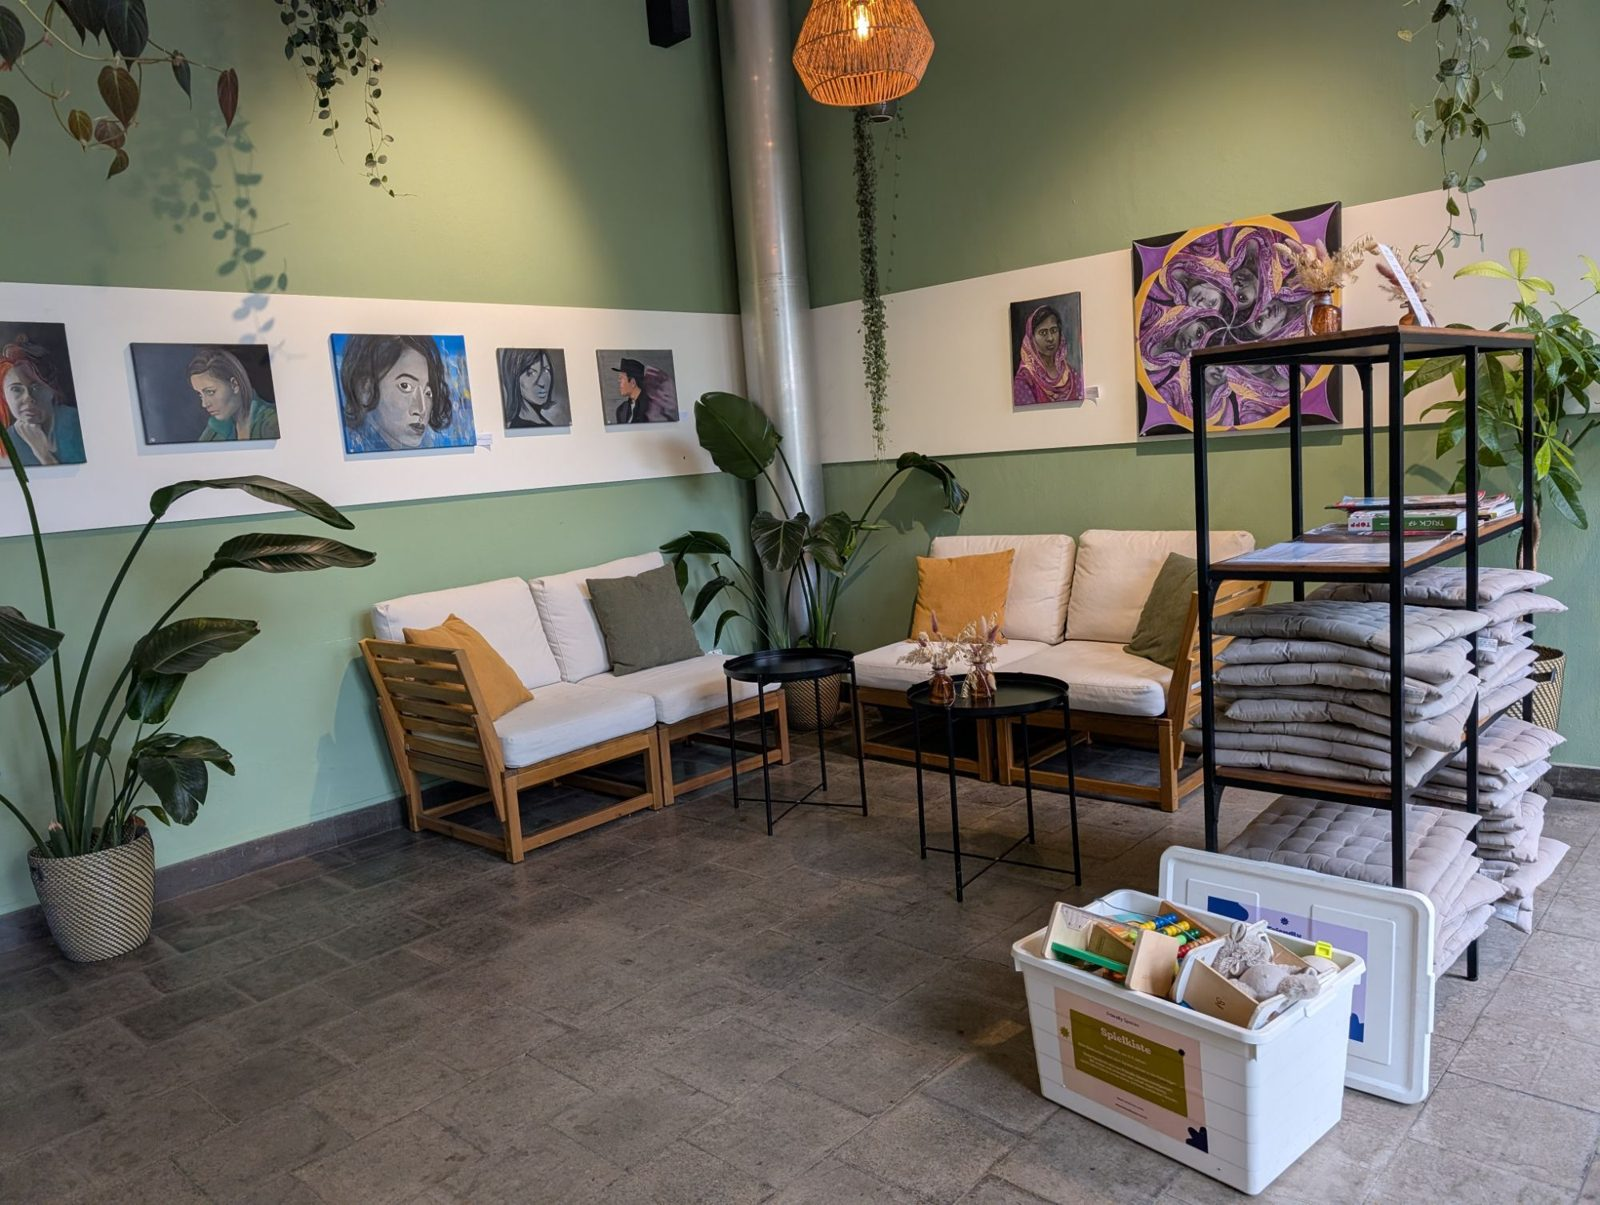
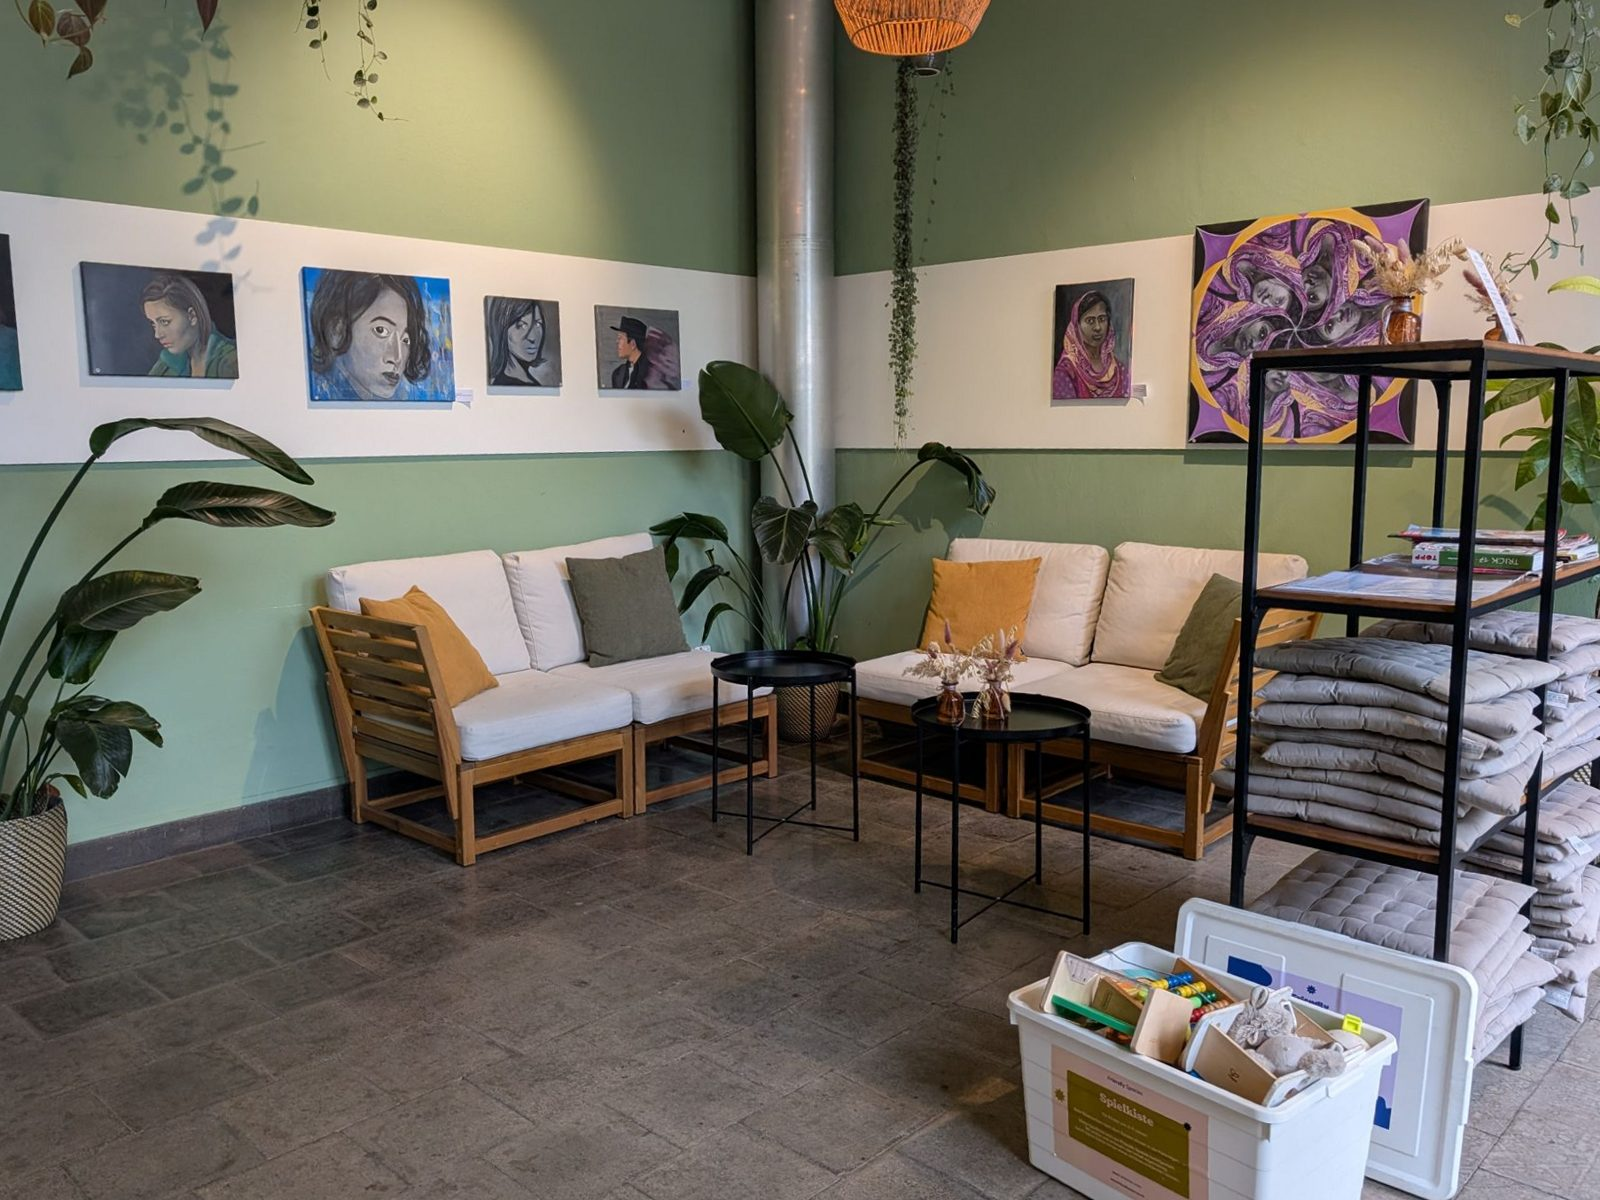
Knocking on doors: Orangerie photo straightened

diff --git a/src/pages/de/news/knocking-on-doors.html b/src/pages/de/news/knocking-on-doors.html
@@ -34,7 +34,7 @@ nav: news
   <article class="post-body">
     <div class="wrap-narrow">
       <figure>
-        <img src="/assets/img/news/orangerie-lounge-2.jpg" alt="Die Lounge der Orangerie Elfenau in Bern, mit der Friendly Spaces Playbox auf dem Boden" width="1600" height="1205">
+        <img src="/assets/img/news/orangerie-lounge-2.jpg" alt="Die Lounge der Orangerie Elfenau in Bern, mit der Friendly Spaces Playbox auf dem Boden" width="1600" height="1200">
         <figcaption>Orangerie Elfenau in Bern, die erste Tür, die sich öffnete, und die erste Playbox.</figcaption>
       </figure>
       <p>Bis August 2025 war die Idee gut ausgearbeitet, und mir gingen die Gründe aus, sie nicht zu testen. Ich setzte mir ein Ziel: acht bis zehn Orte, genug, um das Konzept zu beweisen. Dann begann ich in Bern an Türen zu klopfen. Die ersten paar blieben geschlossen. Die Besitzerinnen und Besitzer waren höflich, sie waren beschäftigt, und ein familienfreundliches Label von einer Person, von der sie noch nie gehört hatten, stand nicht auf ihrer Liste. Dann klopfte ich an die richtige Tür, die Orangerie Elfenau.</p>

diff --git a/src/pages/fr/news/knocking-on-doors.html b/src/pages/fr/news/knocking-on-doors.html
@@ -34,7 +34,7 @@ nav: news
   <article class="post-body">
     <div class="wrap-narrow">
       <figure>
-        <img src="/assets/img/news/orangerie-lounge-2.jpg" alt="Le salon de l'Orangerie Elfenau à Berne, avec la Playbox Friendly Spaces au sol" width="1600" height="1205">
+        <img src="/assets/img/news/orangerie-lounge-2.jpg" alt="Le salon de l'Orangerie Elfenau à Berne, avec la Playbox Friendly Spaces au sol" width="1600" height="1200">
         <figcaption>Orangerie Elfenau à Berne, la première porte qui s'est ouverte, et la première Playbox.</figcaption>
       </figure>
       <p>En août 2025, l'idée était bien développée et je n'avais plus de raisons de ne pas la tester. Je me suis donné un objectif&nbsp;: huit à dix lieux, assez pour prouver le concept. Puis j'ai commencé à frapper aux portes à Berne. Les premières sont restées fermées. Les propriétaires étaient polis, ils étaient occupés, et un label family-friendly proposé par une personne dont ils n'avaient jamais entendu parler n'était pas sur leur liste. Puis j'ai frappé à la bonne porte, l'Orangerie Elfenau.</p>

diff --git a/de/news/knocking-on-doors.html b/de/news/knocking-on-doors.html
@@ -90,7 +90,7 @@
   <article class="post-body">
     <div class="wrap-narrow">
       <figure>
-        <img src="/assets/img/news/orangerie-lounge-2.jpg" alt="Die Lounge der Orangerie Elfenau in Bern, mit der Friendly Spaces Playbox auf dem Boden" width="1600" height="1205">
+        <img src="/assets/img/news/orangerie-lounge-2.jpg" alt="Die Lounge der Orangerie Elfenau in Bern, mit der Friendly Spaces Playbox auf dem Boden" width="1600" height="1200">
         <figcaption>Orangerie Elfenau in Bern, die erste Tür, die sich öffnete, und die erste Playbox.</figcaption>
       </figure>
       <p>Bis August 2025 war die Idee gut ausgearbeitet, und mir gingen die Gründe aus, sie nicht zu testen. Ich setzte mir ein Ziel: acht bis zehn Orte, genug, um das Konzept zu beweisen. Dann begann ich in Bern an Türen zu klopfen. Die ersten paar blieben geschlossen. Die Besitzerinnen und Besitzer waren höflich, sie waren beschäftigt, und ein familienfreundliches Label von einer Person, von der sie noch nie gehört hatten, stand nicht auf ihrer Liste. Dann klopfte ich an die richtige Tür, die Orangerie Elfenau.</p>

diff --git a/fr/news/knocking-on-doors.html b/fr/news/knocking-on-doors.html
@@ -90,7 +90,7 @@
   <article class="post-body">
     <div class="wrap-narrow">
       <figure>
-        <img src="/assets/img/news/orangerie-lounge-2.jpg" alt="Le salon de l'Orangerie Elfenau à Berne, avec la Playbox Friendly Spaces au sol" width="1600" height="1205">
+        <img src="/assets/img/news/orangerie-lounge-2.jpg" alt="Le salon de l'Orangerie Elfenau à Berne, avec la Playbox Friendly Spaces au sol" width="1600" height="1200">
         <figcaption>Orangerie Elfenau à Berne, la première porte qui s'est ouverte, et la première Playbox.</figcaption>
       </figure>
       <p>En août 2025, l'idée était bien développée et je n'avais plus de raisons de ne pas la tester. Je me suis donné un objectif&nbsp;: huit à dix lieux, assez pour prouver le concept. Puis j'ai commencé à frapper aux portes à Berne. Les premières sont restées fermées. Les propriétaires étaient polis, ils étaient occupés, et un label family-friendly proposé par une personne dont ils n'avaient jamais entendu parler n'était pas sur leur liste. Puis j'ai frappé à la bonne porte, l'Orangerie Elfenau.</p>

diff --git a/src/pages/en/news/knocking-on-doors.html b/src/pages/en/news/knocking-on-doors.html
@@ -33,7 +33,7 @@ nav: news
   <article class="post-body">
     <div class="wrap-narrow">
       <figure>
-        <img src="/assets/img/news/orangerie-lounge-2.jpg" alt="The lounge at Orangerie Elfenau in Bern, with the Friendly Spaces Playbox on the floor" width="1600" height="1205">
+        <img src="/assets/img/news/orangerie-lounge-2.jpg" alt="The lounge at Orangerie Elfenau in Bern, with the Friendly Spaces Playbox on the floor" width="1600" height="1200">
         <figcaption>Orangerie Elfenau in Bern, the first door that opened, and the first Playbox.</figcaption>
       </figure>
       <p>By August 2025 the idea was well developed and I had run out of reasons not to test it. I gave myself a goal: eight to ten places, enough to prove the concept. Then I started knocking on doors in Bern. The first few stayed shut. The owners were polite, they were busy, and a family-friendly label from a person they had never heard of was not on their list. Then I knocked on the right one, the Orangerie Elfenau.</p>

diff --git a/news/knocking-on-doors.html b/news/knocking-on-doors.html
@@ -89,7 +89,7 @@
   <article class="post-body">
     <div class="wrap-narrow">
       <figure>
-        <img src="/assets/img/news/orangerie-lounge-2.jpg" alt="The lounge at Orangerie Elfenau in Bern, with the Friendly Spaces Playbox on the floor" width="1600" height="1205">
+        <img src="/assets/img/news/orangerie-lounge-2.jpg" alt="The lounge at Orangerie Elfenau in Bern, with the Friendly Spaces Playbox on the floor" width="1600" height="1200">
         <figcaption>Orangerie Elfenau in Bern, the first door that opened, and the first Playbox.</figcaption>
       </figure>
       <p>By August 2025 the idea was well developed and I had run out of reasons not to test it. I gave myself a goal: eight to ten places, enough to prove the concept. Then I started knocking on doors in Bern. The first few stayed shut. The owners were polite, they were busy, and a family-friendly label from a person they had never heard of was not on their list. Then I knocked on the right one, the Orangerie Elfenau.</p>
